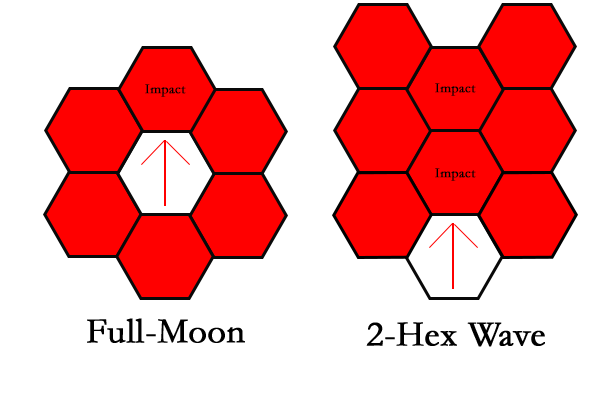
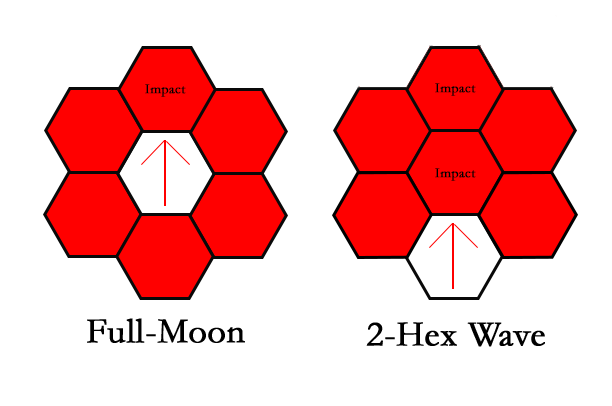
balancing again

Changed region(s): [[0.7761, 0.0, 0.9624, 0.2365], [0.5278, 0.0, 0.7141, 0.2365]]

diff --git a/ffa_corebook.tex b/ffa_corebook.tex
@@ -97,17 +97,18 @@ Like the original homebrew, \emph{Fires Far Away: A Solitaire Journey} eschews d
 \subsection*{Vorpal Encounters}
 No scenario should contain any throwaway encounters or ‘trash mobs’. Each encounter should be a puzzle in and of itself, pitting the character against a mortal and uniquely challenging threat.
 
-\subsection*{Beggared Allowances}
-All mechanics are based around low arithmetic, making them easily tracked via tokens, coins, pencil marks, beads, or even fingers. No need for an abacus or similar such apparatus.
+\subsection*{Terminal Actions}
+The character will face one-shot encounters which alter the scenario depending on whether they suffered defeat, conquered adversity, or fled in the face of it.
 
 \subsection*{Beleaguered Narratives}
 The player is not expected to surmount every obstacle or defeat every enemy. A scenario is a story as much as it is a challenge, and every well-told tale traverses both valleys and summits.
 
+\subsection*{Beggared Allowances}
+All mechanics are based around low arithmetic, making them easily tracked via tokens, coins, pencil marks, beads, or even fingers. No need for an abacus or similar such apparatus.
+
 \subsection*{Convoluted Timelines}
 Unique to \emph{Fires Far Away: A Solitaire Journey}, the player is not likely to experience a scenario in any canonical order. The furtive element of randomness rears its head here; each scenario is broken into chapters that are played in order of draw.
 
-\subsection*{Unreliable Recollections}
-As the player makes their way through a scenario, they will occasionally be asked to take notes on their actions’ outcomes. These notes are referenced later in play, even if that means being referenced earlier in the scenario’s timeline. The same holds true for the character’s equipment and advancements, which have a habit of flaunting the laws of time and space. Memories in this game are somewhat unreliable, so players should try not to grow too attached to them.
 
 \vfill
 
@@ -281,11 +282,11 @@ When instructing the player on which reading to turn to, the scenario will use t
 Each scenario is organized into a hierarchy of chapters, sections, and readings. These are serialized via codes.\\
 \textbf{Example:}
 \begin{itemize}
-\item Take the code ‘x12’
+\item Take this example code: x12
 \item The letter prepending a code, in this case ‘x’, refers its chapter
 \item The first number in a code, in this case ‘1’, designates its section
 \item The rest of the code is the actual reading. In this example, ‘x12’ refers to the second reading of the first section of the ‘x’ chapter
-\item Notes are serialized by the reading in which they are encountered, followed by a unique letter, i.e: x12\textbf{a} in this example
+\item Notes are serialized by the reading in which they are encountered, followed by a unique letter, i.e: x12\textbf{a} for this example
 \end{itemize}
 
 \columnbreak
@@ -296,7 +297,7 @@ When reading through a chapter, a chevron (>) designates a chapter action. Chapt
 \subsubsection{Checks \& Gates}
 Occasionally, the chapter may restrict progress or grant the player extra options based on a check. These often comes in the form of gates, where some physical portal is locked until the character acquires its key. Other times this might be a stat check, like only allowing a sufficiently intelligent character to make sense of a magical tome. A check may also reference the character’s past actions via their notes.\\
 
-\textbf{Checks Roster:}\\
+\textbf{Check Details:}\\
 \emph{Italicized text} prefacing a chapter action designates some requirement that must be fulfilled. For example, \emph{‘8+ INT’} requires an \refto{INT} score of 8 or higher. A check might also ask for a note via its code, such as \emph{‘x12a’}, or refer to some item the character must possess.\\
 
 \emph{AND/OR} can be used to require multiple checks for a chapter action, or at least one of them.\\
@@ -338,11 +339,11 @@ Occasionally, a chapter will give the player a chance to take a \reftoit{short r
 \subsubsection{Souls \& Soul Advancement}
 Souls have their values marked in parentheses (the name of a soul is purely for flavor). Whenever the character obtains souls, that value is added to the total on the character sheet. \\
 The character’s \refto{SL} may only be upgraded during a \reftoit{short reprieve}, and if the character is not Hollow. Whenever the character upgrades their \refto{SL}, they may increase any Primary Stat by 1 point. Immediately recalculate all Distributory Values after each \refto{SL} upgrade to ensure the full benefit of the increased stat.\\
-The cost of upgrading is \emph{\refto{SL} + 1} souls, where \refto{SL} is the current value.
+The standardized cost of upgrading is \emph{\refto{SL} + 1} souls, where \refto{SL} is the current value.
 
 \subsubsection{The Stash}
 \emph{Fires Far Away: A Solitaire Journey’s} gameplay does not revolve around vacuuming dungeon floors. Characters should not be lugging around twenty shortswords in the hopes that they might find some pawn shop that’ll take them. However, the game has taken some precautions for to-be-used equipment. Any equipment or items the character finds can be stored in the stash, as long as that gear isn’t \reftoit{Ephemeral}. The character must have access to their stash in order to store or retrieve its contents. Note the stash’s contents on the record sheet or a piece of scratch paper. Though the default record sheet has a limited number of entries, the stash can hold unlimited items.\\
-The stash has a habit of popping up now and again in odd locations, especially at sites suitable for a \reftoit{short reprieve}. How the stash makes its way from place to place with all the character’s gear is anybody’s guess.
+The stash has a habit of popping up now and again in odd locations, especially at sites suitable for a \reftoit{short reprieve}. How the stash makes its way from place to place with all the character’s gear is anybody’s guess.\\
 
 \begin{tcolorbox}
 \textbf{Note:} A \reftoit{short reprieve} does not automatically grant the character access to their stash. The scenario must state that the stash is accessible.
@@ -357,12 +358,14 @@ Up to two actions may be committed during the character’s Turn by spending \re
 The character can commit either two Simple actions per Turn, or one Simple and one Dynamic. The character can perform Simple and Dynamic actions in either order.\\
 In addition, the character may commit one Free action (an action with no \refto{SP} cost) per Turn. This Free action may not be committed last, and it does not count towards the character’s action minimum or action limit.\\
 Actions with an \refto{SP} cost of 2D are Double actions, and count as taking both actions for the Turn. The character may still commit a Free action before a Double, but not afterwards.
+
 \begin{tcolorbox}
 \textbf{Example:} A character might perform two Simple actions during their Turn, such as moving and then loading a crossbow.\\
 They could also perform a Simple and Dynamic action in either order, such as moving and then attacking (or vice versa).\\
 Or, they could perform a Double action like sprinting.\\
-For their Free action, the character might switch to an alternative weapon or catalyst, but only once per Turn and not as their final action.
+For their Free action, the character might two-hand their weapon or switch to a shield, but only once per Turn and not as their final action.
 \end{tcolorbox}
+
 Reactions are committed during the \emph{counterbeat}--after the active enemy’s Move (if any), but before their attack. One reaction may be committed before each and every attack, but it only takes effect for that specific attack. This is regardless of whether the character is reacting to multiple attacking enemies, or one enemy committing multiple attacks. Some attacks retain an implicit Move, which will occur after the reaction (as it is part of the attack).\\
 The character may not commit a reaction if the active enemy’s Turn is listed as \reftoit{Sudden}.
 
@@ -403,7 +406,7 @@ All conditions are cumulative unless stated otherwise, meaning an entity can be 
 
 \emph{\textbf{Immediate}} conditions have some instant effect on the afflicted. They do not require a token for recordkeeping, unless they’re being \reftoit{sunk}.\\
 
-\emph{\textbf{Time-Limited}} conditions take effect for as long as at least one token is present on the afflicted’s entity sheet. One \emph{Time-Limited - Turn} token is removed from an entity’s sheet after every Turn. One \emph{Time-Limited - Round} token is removed from all entity sheets at the end of each Round.\\
+\emph{\textbf{Time-Limited}} conditions take effect for as long as at least one token is present on the afflicted’s entity sheet. One \emph{Time-Limited - Turn} token is removed from an entity’s sheet after every Turn. And one \emph{Time-Limited - Round} token is removed from all entity sheets at the end of each Round.\\
 
 \emph{\textbf{Static}}\hypertarget{Static}{} conditions take effect for as long as at least one token is present on the afflicted’s entity sheet. These tokens can only be removed by committing certain actions or fulfilling special conditions.
 
@@ -472,7 +475,7 @@ This condition is non-cumulative, and can be \reftoit{sunk} using \refto{PS}.
 
 \textbf{Mute:} \emph{Time-Limited - Round.} A Mute entity cannot use any attunements except for Guts.\\
 
-\textbf{Netted/Webbed}: \emph{Static.} The afflicted entity cannot Move, or use any actions’ implicit movement. All actions besides \emph{Struggle!} cost +1 \refto{SP} per Netted/Webbed token.\\
+\textbf{Netted/Webbed}: \emph{Static.} The afflicted entity cannot Move, or use any action’s implicit movement. All actions besides \emph{Struggle!} cost +1 \refto{SP} per Netted/Webbed token.\\
 Each use of the \reftoit{Struggle!} action removes 1 Netted/Webbed token.\\
 During a \emph{counterbeat}, any enemy incapable of resolving its encounter roll due to being Netted/Webbed will instead perform the \reftoit{Struggle!} action.\\
 
@@ -548,7 +551,7 @@ In dark encounters, all tiles past range 2 are concealment. With a lit light sou
 
 \subsubsection{\emph{Dodge!}}
 \hypertarget{Dodge!}{}
-\reftoit{Dodge!} is a reaction the character may commit to evade most kinds of attacks. Its \refto{SP} cost and implicit Move will change depending on the character’s \refto{ENC}. Characters that have far exceeded their weight capacity will be incapable of committing the reaction. See the Dynamic Actions Roster entry for details.
+\reftoit{Dodge!} is a reaction the character may commit to evade most kinds of attacks. Its \refto{SP} cost and implicit Move will change depending on the character’s \refto{ENC}. Characters that have far exceeded their weight capacity will be incapable of committing the reaction. See its entry in the Dynamic Actions Roster for details.
 
 \subsubsection{\emph{Guard Break}}
 \hypertarget{Guard Break}{}
@@ -599,19 +602,19 @@ A Turn refers to a \emph{beat} or \emph{counterbeat}. When this corebook uses Tu
 
 \subsubsection{\emph{Shield Up!}}
 \hypertarget{Shield Up!}{}
-Shields are used by committing the \reftoit{Shield Up!} action, which adds a \reftoit{Shield Up!} token to the entity sheet. While \reftoit{Shield Up!} is present, the shielded entity places all incoming damage on this token--up to the shield’s Defense value per attack. The entity may not elect to forgo blocking any attacks in this manner. Damage tokens that are listed as \reftoit{Unblockable} or \reftoit{Inevitable} cannot be placed on the \reftoit{Shield Up!} token.\\
+Shields are used by committing the \reftoit{Shield Up!} action, which adds a \reftoit{Shield Up!} token to the entity sheet. While \reftoit{Shield Up!} is present, the shielded entity places all incoming damage on this token--up to the shield’s Defense value per attack. The entity may not elect to forgo blocking any attacks in this manner. Damage tokens that are listed as \reftoit{Unblockable} or \reftoit{Inevitable} damage cannot be placed on the \reftoit{Shield Up!} token.\\
 If the number of damage tokens on a \reftoit{Shield Up!} token ever exceeds the shield’s Stability, that entity will suffer an immediate \reftoit{Guard Break.}\\
 If knocked down, the entity can still add a \reftoit{Shield Up!} token to their entity sheet, and it will not be removed by performing the \emph{Get Up!} action.\\
 If a shielded entity commits any action, remove the \reftoit{Shield Up!} token unless instructed otherwise.\\
 Remove all damage tokens from \reftoit{Shield Up!} at the start of every Round.\\
-Unequipping a shield or committing Lower Shield will not immediately clear it of damage tokens.
+Losing the \reftoit{Shield Up!} token during the Round, such as by committing Lower Shield, will not clear it of damage tokens.
 
 \subsubsection{\emph{Sinks}}
 \hypertarget{sink}{}\hypertarget{sunk}{}\hypertarget{sinks}{}\hypertarget{Sinks}{}
-\reftoit{Sinks} refers to the mechanic by which entities can avoid assigning damage to \refto{HP} slots or suffering certain conditions.\\
+\reftoit{Sinks} refers to the mechanic by which entities can avoid assigning damage to \refto{HP} slots, or avoid suffering certain conditions.\\
 \reftoit{Sinks} include: \refto{P.DEF}, \refto{F.DEF}, \refto{M.DEF}, \refto{D.DEF}, \refto{L.DEF}, \refto{RES}, and \refto{PS}. These Defenses refer to which specific damage and/or condition tokens they can \reftoit{sink}. See ‘Defenses’ in the Player Character section for details.\\
 \reftoit{Sinks} can encapsulate a total number of damage and/or condition tokens equal to their value. They can encapsulate both incoming damage and conditions, as well as trickling damage tokens, but not conditions that were already present on the entity sheet.\\
-All \reftoit{sinks} are cleared of their damage tokens at the start of each Round.
+All \reftoit{sinks} are cleared of their tokens at the start of each Round.
 
 \begin{tcolorbox}
 \textbf{Note:} Remember that \reftoit{sinks} and \reftoit{Shield Up!} are cleared during the start of the Round, not each Turn.
@@ -703,11 +706,14 @@ Enemies may have special types applied to them, such as \emph{Undead} or \emph{I
 
 \textbf{Hollowed:} This entity is insane and ignores the Stunned, Charmed, Maddened, and Fear conditions.\\
 
-\textbf{Intelligent:} This entity is either human or possesses a human-like intelligence. If the shortest route for an \emph{Intelligent} enemy’s movement would cause it to bunch up with other entities or otherwise not reach its intended target, it will take another, longer route to its target. \emph{Intelligent} enemies will also \emph{Drop!} and \emph{Roll!} away from the character if they are Blazing at the start of their \emph{counterbeat.}\\
+\textbf{Intelligent:} This entity is either human or possesses a human-like intelligence. \emph{Intelligent} enemies will also \emph{Drop!} and \emph{Roll!} away from the character if they are Blazing at the start of their \emph{counterbeat.}\\
 
-\textbf{Large:} This entity occupies 2 tiles (head and tail) and ignores normal Knockback and Knockdown sources. For the purposes of movement, the head tile is always moved first and the tail tile is filled-in behind the head, opposite its movement or attack direction. Turning (i.e: just moving the tail) will still use a point of Move.\\
+\textbf{Large:} This entity occupies 2 tiles (head and tail) and ignores normal Knockback and Knockdown sources.\\
+For committing Move, the head tile is moved first and then the tail tile is filled-in behind the head, opposite its movement or attack direction. Turning (i.e: just moving the tail) will still use a point of the entity’s Move value.\\
+Both of this entity’s occupied hexes can sustain AoE damage.\\
 There are some attacks that specifically originate from the head or tail, and use that tile to determine range. If an attack does not specify a head or tail tile, then it may originate from either.\\
 If using coinage for entity tokens, the head and tail tile can easily be distinguished using those selfsame sides of the coins.\\
+A \emph{Large} entity is not concealed unless both of its tokens are located in concealment tiles.\\
 
 \textbf{Mounted:} This enemy rides something, and can be subjected to the Dismounted condition. The actual effect of being Dismounted is specific to each enemy.\\
 
@@ -728,13 +734,14 @@ An encounter roll’s conditional behaviors are resolved in alphabetical order (
 \textbf{3 -- Move:} Enemies cannot use their Move value unless the encounter roll specifically calls for it. Enemies will normally move up to their maximum Move value towards the character, using the shortest logical route to the nearest free hex.\\
 Some enemies may prefer to keep their distance from the character, which will be clearly dictated on their enemy sheet, i.e: ‘keeps 1 tile distance’. These enemies will also Move away from the character to maintain their preferred distance.\\
 Enemies will normally skirt hazard tiles during movement, unless they are Blinded or the hazard tile is non-lethal (i.e: knee-deep water).\\
-If an enemy cannot reach the character, or there are no free adjacent tiles, it should move as close as possible using the shortest logical route, even if it needs to bunch up behind other entities.\\ 
+If an enemy cannot reach the character, or there are no free adjacent tiles, it should move as close as possible using the shortest logical route.\\ 
 Entities cannot Move through tiles containing other entities, unless they’re afflicted with Knockdown.\\
-Lastly, an enemy’s Move is cognizant of the range for their \emph{first listed} attack. This means that enemies making ranged attacks will Move to shoot across hazards instead of skirting around them.\\
+Lastly, an enemy’s Move is cognizant of the range for their \emph{first listed} attack. This means that enemies making ranged attacks will Move to shoot across hazards instead of skirting around them.
 
 \textbf{4 -- Attacking:} Refer to the enemy’s listed attacks for details on damage, modifiers, type, range, and any implicit Move.\\
 If an enemy is out of range for an attack due to the character committing a reaction (such as Juke or \reftoit{Dodge!}), then the entity shall be treated as if it committed the attack anyway.\\
-Some attacks give the enemy an implicit Move. This Move is always taken by the active enemy, even if their attack does not land. If an enemy commits multiple attacks with implicit Move, it gets to use each implicit Move before every attack.\\
+Some attacks give the enemy an implicit Move. This Move is always taken as part of the attack, even if the attack does not land. Since implicit Move is part of the attack, it also occurs after any reactions.\\
+If an enemy commits multiple attacks with implicit Move, it gets to use each implicit Move before every attack.\\
 
 \textbf{5 -- Special Conditions:} Some enemies have special reactions to conditions like being knocked down. Refer to the enemy’s description page. This special behavior will be listed with the enemy’s other types, if any.\\
 
@@ -743,7 +750,9 @@ The result of this system is that enemy behavior is semi-predictable. The player
 \vfill
 
 \begin{tcolorbox}
-\textbf{Note:} Lastly, this system was designed cognizant of the fact that the player will be controlling their own opponents, and that the player will encounter situations where they can make decisions for their opponents that are beneficial to their character. This is perfectly fine, \emph{so long as those moves are legal and sensible}. Controlling enemies is as much a part of the game’s strategy as controlling the character--in fact, some encounters might be based around it!
+\textbf{Note:} Lastly, this system was designed cognizant of the fact that the player will be controlling their own opponents, and that the player will encounter situations where they can make decisions for their opponents that are beneficial to their character. This is perfectly fine, \emph{so long as those moves are legal and sensible}.\\
+
+Controlling enemies is as much a part of the game’s strategy as controlling the character.
 \end{tcolorbox}
 
 \vfill
@@ -757,10 +766,10 @@ Attunements can only be re-assigned during a \reftoit{short reprieve}.\\
 The method for learning attunements depends on the scenario, but is usually done through interacting with events or non-player characters.
 
 \subsubsection{Broken Equipment}
-Broken equipment is no longer usable. This includes whatever bonuses or special effects that equipment normally allows. Broken weapons cannot attack, broken shields cannot use \reftoit{Shield Up!}, broken rings provide no boons, broken catalysts cannot Cast, and so on and so forth. This equipment can be repaired during a \emph{short reprieve.}
+Broken equipment is no longer usable. This includes whatever bonuses or special effects that equipment normally allows. Broken weapons cannot attack, broken shields cannot use \reftoit{Shield Up!}, broken rings provide no boons, broken catalysts cannot cast, and so on and so forth. This equipment can be repaired during a \emph{short reprieve.}
 
 \subsubsection{Catalysts}
-In order to activate an attunement, the caster must equip a catalyst that allows for that attunement type. This catalyst’s Power assists in determining the quality of that sorcery, hex, miracle, or pyromancy. Guts-type attunements do not require a catalyst.
+In order to Activate an attunement, the caster must equip a catalyst that allows for that attunement type. This catalyst’s Power assists in determining the quality of that sorcery, hex, miracle, or pyromancy. Guts-type attunements do not require a catalyst.
 
 \subsubsection{\emph{Carried}}
 \hypertarget{Carried}{}\hypertarget{carried}{}\hypertarget{carry}{}
@@ -789,7 +798,7 @@ Some equipment has Durability \reftoit{sinks} which can be used to mitigate dama
 Flasks are equipped in pouches like any other item. Flasks produce effects when the character drinks from them. However, drinking necessitates proper situational awareness, as it is a Double action. Drinking from a flask reduces its charges by 1.
 
 \subsubsection{Free Hand}
-Leaving a free hand open alters the Use Item \refto{SP} cost to 2, and Drink to a flat 5. In addition, the character can still use their free fist as a weapon. Remove one hand token to represent free handing.
+Leaving a free hand open alters the Use Item \refto{SP} cost to 2, and Drink to a flat 6. In addition, the character can still use their free fist as a weapon. Remove one hand token to represent free handing.
 
 \subsubsection{Hand Slots}
 The character has four hand slots for equipping weapons, shields, and catalysts. Use two tokens (representing the character’s two hands) to track what’s being equipped in either hand. The passive effects (and weight) of equipment in hand slots is always in-play, regardless of whether or not that equipment is actually equipped.
@@ -1325,7 +1334,7 @@ Do not remove \reftoit{Shield Up!}\newline
 If ENC<=EQP, \refto{SP} cost is 1D.\newline
 If ENC<=EQP*2, \refto{SP} cost is 2.\newline
 If ENC>EQP*2, \refto{SP} cost is 3\\
-Load & A & 2 & LdR\newline Missile available\newline No adjacent enemy & Select a missile from the quiver and make ready a loadable weapon. An already loaded weapon can have its ammunition swapped in this manner\\
+Load & A & 2 & LdR\newline Missile available\newline No adjacent enemy & Select a missile from the quiver and make ready a loadable weapon. An already loaded weapon can have its ammunition swapped in this manner.\newline May be committed while knocked down\\
 Move & A & 1D+ & - & Move 1!\newline
 Do not remove \reftoit{Shield Up!}\newline
 May move an additional tile for each overspent \refto{SP}.\newline
@@ -1348,12 +1357,14 @@ Remove Blazing\\
 \reftoit{Shield Up!} & E & X & Shield held & Add the \reftoit{Shield Up!} token to the status sheet.\newline
 \refto{SP} cost is Def, where Def is the shield’s Defense value.\newline
 This token is removed when committing any other action, unless that action specifically allows the character to keep their \reftoit{Shield Up!} token.\newline
-\textbf{Remember} that while the character can Move without losing \emph{Shield Up!} it will reduce their max Move to 4\\
+May be committed while knocked down.\newline
+\emph{Remember that while the character can Move without losing Shield Up! it will reduce their max Move to 4}\\
 Take Aim & A & 3 & - & The next non-attunement ranged attack or thrown item made this \emph{beat} gains 2 hexes in range.\newline
 If the attack is made within the original weapon range, then the item or missile gains \reftoit{Unblockable}.\newline
-If the attack is made within the original weapon range, the target does not possess \reftoit{Shield Up!}, then the attack gains 1 damage (as long as any damage existed prior)\\
+If the attack is made within the original weapon range, the target does not possess \reftoit{Shield Up!}, then the attack gains 1 damage (as long as any damage existed prior).\newline
+May be committed while knocked down\\
 Take Cover & R & 1D & Adjacent to half-cover & Any adjacent half-cover obstacles are treated as full-cover for this entire \emph{counterbeat}\\
-Use Item & A & 3 & Item with charges & Use any equipped item, reducing its charges by 1 and resolving its effects.\newline Does not refer to drinking from flasks\\
+Use Item & A & 3 & Item with charges & Use any equipped item, reducing its charges by 1 and resolving its effects.\newline Does not refer to drinking from flasks.\newline May be committed while knocked down\\
 \hline
 \end{tabularx}
 \end{center}
@@ -1365,20 +1376,19 @@ Dynamic actions that can only be committed once per \emph{beat}, in addition to 
 \begin{center}
 \begin{tabularx}{\textwidth}{p{0.1\textwidth}p{0.08\textwidth}p{0.1\textwidth}p{0.2\textwidth}p{0.4\textwidth}}
 \hline
-\textbf{Action} & \textbf{Type} & \textbf{SP} & \textbf{Requires} & \textbf{Effect}\setcounter{rownum}{0}\\
+\rowcolor{white} \textbf{Action} & \textbf{Type} & \textbf{SP} & \textbf{Requires} & \textbf{Effect}\setcounter{rownum}{0}\\
 \hline
-Cast & X & X & Catalyst & Cast an attunement using the equipped catalyst. \refto{PWR} is the character’s attunement type Bonus and catalyst’s Power combined.\newline See attunement details for \refto{SP} and \refto{FP} cost.\newline Only attunements tagged as reactions may be cast as such\\
-\emph{Dive!} & E & 2 & - & Move 2! in a straight or snaking line.\newline
+Activate & X & X & - & Activate an attunement, using the equipped catalyst if one is needed.\newline See the specific attunement’s details for \refto{SP} and \refto{FP} cost, and any other requirements.\newline Only attunements marked as reactions may be committed as such\\
+\emph{Dive!} & E & 3 & - & Move 2! in a straight or snaking line.\newline
 Place an \reftoit{Inevitable} Knockdown token on the status sheet\\
 \emph{Dodge!} & R & X & ENC<=EQP*2 & Refer to Page 23 for \refto{SP} cost and any implicit Move.\newline
 Take no damage or conditions from the active enemy’s current attack unless it is \reftoit{Undodgeable}, \reftoit{Inevitable}, or \reftoit{Lock-On}\newline
 The implicit Move of \emph{Dodge!} may allow the character to get out of range of attacks that it cannot mitigate. Any implicit Move for \emph{Dodge!} is not optional (marked ‘!’).\\
-Drink & A & 2D & Flask with charges & Drink from an equipped flask, reducing its charges by 1 and resolving its effects\\
-Gasp\newline \& Pant & A & - & - & Remove all remaining \refto{SP} dice from the \reftoit{stamina pool}.\newline This is not a Free action\\
+Drink & A & 2D & Flask with charges & Drink from an equipped flask, reducing its charges by 1 and resolving its effects.\newline May be committed while knocked down\\
+Gasp\newline \& Pant & A & - & - & Remove all remaining \refto{SP} dice from the \reftoit{stamina pool}.\newline May be committed while knocked down.\newline This is not a Free action\\
 Retreat & A & 1D & Standing on a retreat tile, and able to Move & Resolve the encounter’s Retreat result\\
 Sprint & A & 2D & ENC<=EQP*2 & Move 4-6\\
-\emph{Struggle!}\hypertarget{Struggle!}{} & A & 2D & - & Some conditions, such as Frozen, can only be removed by struggling. Remove 1 such condition token per use of \reftoit{Struggle!}\\
-Summon Guts & X & X & - & Activate a Guts attunement. See attunements details for \refto{SP} and \refto{FP} cost. Only attunements tagged as reactions can be used as such\\
+\emph{Struggle!}\hypertarget{Struggle!}{} & A & 2D & - & Some conditions, such as Frozen, can only be removed by struggling. Remove 1 such condition token per use of \reftoit{Struggle!}.\newline May be committed while knocked down\\
 Vault & A & X & ENC<=EQP*2 & Move 2!, ignoring the effects of a hazard or tile of half-cover.\newline
 If ENC<=EQP/2 \emph{rd}, \refto{SP} cost is 3.\newline
 If ENC<=EQP, \refto{SP} cost is 4.\newline
@@ -1398,11 +1408,12 @@ A Free action does not count toward a \emph{beat’s} action minimum or action l
 \rowcolor{white} \textbf{Action} & \textbf{Type} & \textbf{SP} & \textbf{Requires} & \textbf{Effect}\setcounter{rownum}{0}\\
 \hline
 \emph{Drop!} & A & F & - & Place an \reftoit{Inevitable} Knockdown token on the status sheet\\
-Lower Shield & A & F & \reftoit{Shield Up!} & Remove \reftoit{Shield Up!}\\
+Lower Shield & A & F & \reftoit{Shield Up!} & Remove \reftoit{Shield Up!}\newline May be committed while knocked down\\
 Swap Equipment & A & F & - & Swap hand tokens to any combination of hand slots on the character sheet.\newline
 Do not remove \reftoit{Shield Up!} if the same shield is still equipped.\newline
 This action can be used to two-hand or free hand a single weapon.\newline
-The character still retains the passive bonuses of all equipment in hand slots, including their weight, regardless of whether they’re currently held\\
+The character still retains the passive bonuses of all equipment in hand slots, including their weight, regardless of whether they’re currently held.\newline
+May be committed while knocked down\\
 \hline
 \end{tabularx}
 \end{center}
@@ -1444,14 +1455,16 @@ Draw\newline and Fire & A & Wep & 2H R\newline Missile available\newline No adja
 \hline
 \rowcolor{white} \textbf{Action} & \textbf{Type} & \textbf{SP} & \textbf{Requires} & \textbf{Effect}\setcounter{rownum}{0}\\
 \hline
-Kick & A & 3 & - & Inflict Knockback 1 on an adjacent enemy, and remove any \reftoit{Shield Up!} token from that enemy.\newline
-If target enemy is knocked down, inflict Stun on that enemy instead of Knockback.\newline This is a Simple action\\
+Kick & A & 3 & - & Remove \reftoit{Shield Up!} from an adjacent enemy.\newline
+Inflict \emph{Unparryable} Knockback 1 on that enemy if they are not knocked down.\newline
+If the enemy is knocked down, and did not possess \reftoit{Shield Up!} prior to being kicked, inflict \emph{Unparryable} Stun on that enemy.\newline
+This is a Simple action\\
 Overhead & A & Wep+2 & M (C)\newline Base damage greater than 2 & Attack all hexes in a forward or snaking line within weapon range, ignoring any minimum range.\newline
 If this attack assigns all of its damage to \refto{HP} slots, it also inflicts Knockdown\\
-Parry & R & X & M & Spend a \refto{SP} die matching one die rolled on the encounter table. Cancel the active enemy’s melee attack and end its Turn.\newline The active enemy must be controlled by the encounter table with the matched die.\newline Cannot be used on \reftoit{Unparryable} attacks\\
+Parry & R & X & M & Spend a \refto{SP} die matching one die rolled on the encounter table. Cancel the active enemy’s melee attack, remove any \reftoit{Shield Up!} token, and end its Turn.\newline The active enemy must be controlled by the encounter table with the matched die.\newline Cannot be used on \reftoit{Unparryable} attacks\\
 Shield Bash & A & 3 & Shield held & Deal the equipped shield’s damage and inflict Knockback 1 on an adjacent enemy.\newline Do not remove \reftoit{Shield Up!}\\
 Shield Ram & A & 5 & Shield held & Move 1-2 in a straight or snaking line.\newline After moving, deal the equipped shield’s damage and inflict Knockback 2 in a charging-type attack on an adjacent enemy.\newline Do not remove \reftoit{Shield Up!}\\
-Shoot & A & Wep & 2H LdR\newline Loaded LdR & Deal weapon and loaded ammunition’s combined damage to an enemy within their combined range. This unloads the weapon\\
+Shoot & A & Wep & 2H LdR\newline Loaded LdR & Deal weapon and loaded ammunition’s combined damage to an enemy within their combined range. This unloads the weapon.\newline May be committed while knocked down\\
 Spin & A & Wep+3 & 2H M (S,C) & Attack six adjacent hexes in a full-moon pattern\\
 Spin, Dual & A & 2D & Dual wielding\newline No M (P) & Attack six adjacent hexes in a full-moon pattern with both equipped weapons, one after the other\\
 Sweep & A & Wep+2 & 2H M (S,C) & Attack three adjacent hexes in a half-moon pattern\\
@@ -1479,7 +1492,7 @@ Defeat Guard & A & Wep+1 & - & Attack an enemy within weapon range with \reftoit
 Fend & R & Wep*2 & - & Attack the active enemy once it crosses within weapon range. This does not interrupt that enemy’s Turn \\
 Flurry & A & 2D & 1H & Attack a single enemy within weapon range twice\\
 Harry & A & Wep+1 & 1H & Commit a Light Attack, and then Move 1 in any direction \\
-Light/Douse & A & 2 & Doused weapon & Lights or douses a weapon, such as a torch\\
+Light/Douse & A & 2 & Doused weapon & Lights or douses a weapon, such as a torch.\newline May be committed while knocked down\\
 Lunge & A & Wep+1 & M (P) & Move 1-2 in a straight or snaking line.\newline After moving, perform a charging-type attack on an enemy within weapon range for \reftoit{Unparryable} damage.\\
 Mordhau & A & X+ & 2H M & Commit any attack from the basic Crush moveset, dealing overspent Crush with -1 to base damage\\
 Plant Pavise & A & 3 & - & Exhaust the Pavise Shield equipment and changes a non-special tile to a half-cover obstacle\\
@@ -2007,7 +2020,7 @@ Spellbook & Sorcery & 2 & 1 C & 1 & - & INT - 15 & N/A & Increases available \re
 Spell Rapier & Sorcery & 1 & 2 S,P & 2 & - & STR - 6\newline DEX - 13\newline INT - 10 & N/A & Also functions as the weapon ‘Rapier’\\
 Staff\newline of Chimes & Miracles & 2 & 2 C & 1 & 1 & STR - 6\newline DEX - 6\newline FTH - 15 & N/A & Also functions as the weapon ‘Quarterstaff’\\
 Strange Idol & Witchery\newline Miracles & 1 & 1 C & - & - & INT - 13\newline FTH - 13 & N/A & Causes a permanent Withering token to remain on the status sheet\\
-Unstable Contraption & Sorcery & 3 & 1 C & 1 & - & INT - 18 & N/A & If using \refto{SP} dice of scores 1 or 2 to commit Cast, suffer 1 \reftoit{Inevitable} Magic damage\\
+Unstable Contraption & Sorcery & 3 & 1 C & 1 & - & INT - 18 & N/A & If using \refto{SP} dice of scores 1 or 2 to commit Activate, suffer 1 \reftoit{Inevitable} Magic damage\\
 Venomwood Wand & Sorcery\newline Witchery & 1 & 1 C & - & - & INT - 14\newline FTH - 10 & N/A & N/A\\
 Wand & Sorcery & 1 & 1 C & - & - & INT - 10 & N/A & N/A\\
 Zeal & Miracles & 3 & 1 C & 1 & 1 & FTH - 18 & N/A & Cannot be dual wielded or equipped with a shield\\
@@ -2472,7 +2485,7 @@ Enjoy your game!\\
 \pagebreak
 
 \section{Version History}
-\subsubsection*{5/5/2021 - 1.0}
+\subsubsection*{5/14/2021 - 1.0}
 \begin{itemize}
 \item Complete and serviceable corebook release
 \item Sprint no longer requires a straight or snaking line
@@ -2483,6 +2496,13 @@ Enjoy your game!\\
 \item Mordhau can now be overspent
 \item Changed Blinded
 \item \refto{POTs} are now 8 -> 10, 12, 14...
+\item Clarified that Kick only removes \reftoit{Shield Up!} if the entity suffers its Knockback
+\item Replaced ‘Cast’ and ‘Summon Guts’ with Activate
+\item Clarified which actions can be taken while knocked down
+\item Altered the wave AoE pattern
+\item Free hand Drink costs 6
+\item Increased \emph{Dive!} to 3
+\item Parry now removes \reftoit{Shield Up!}
 \item More rebalancing following \emph{Everloyal} playtesting
 \end{itemize}
 \subsubsection*{4/29/2021 - 0.99}
